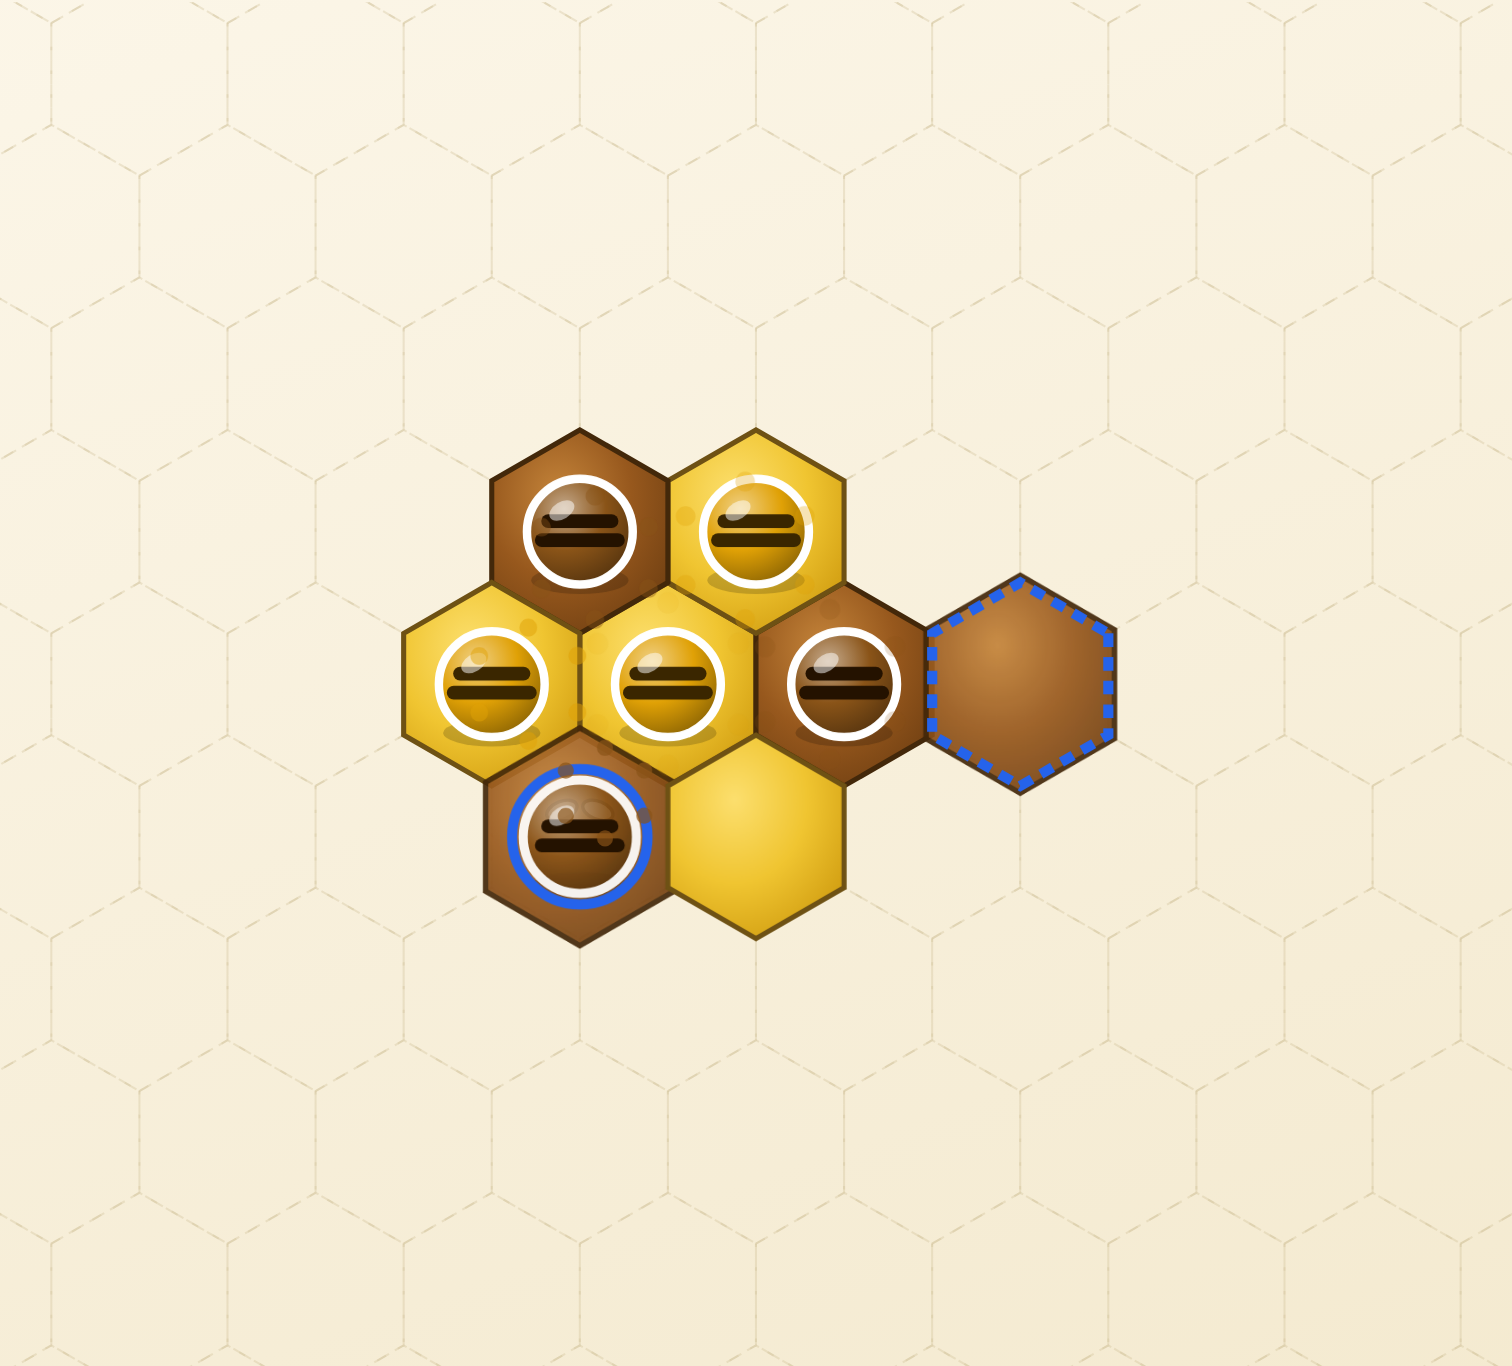
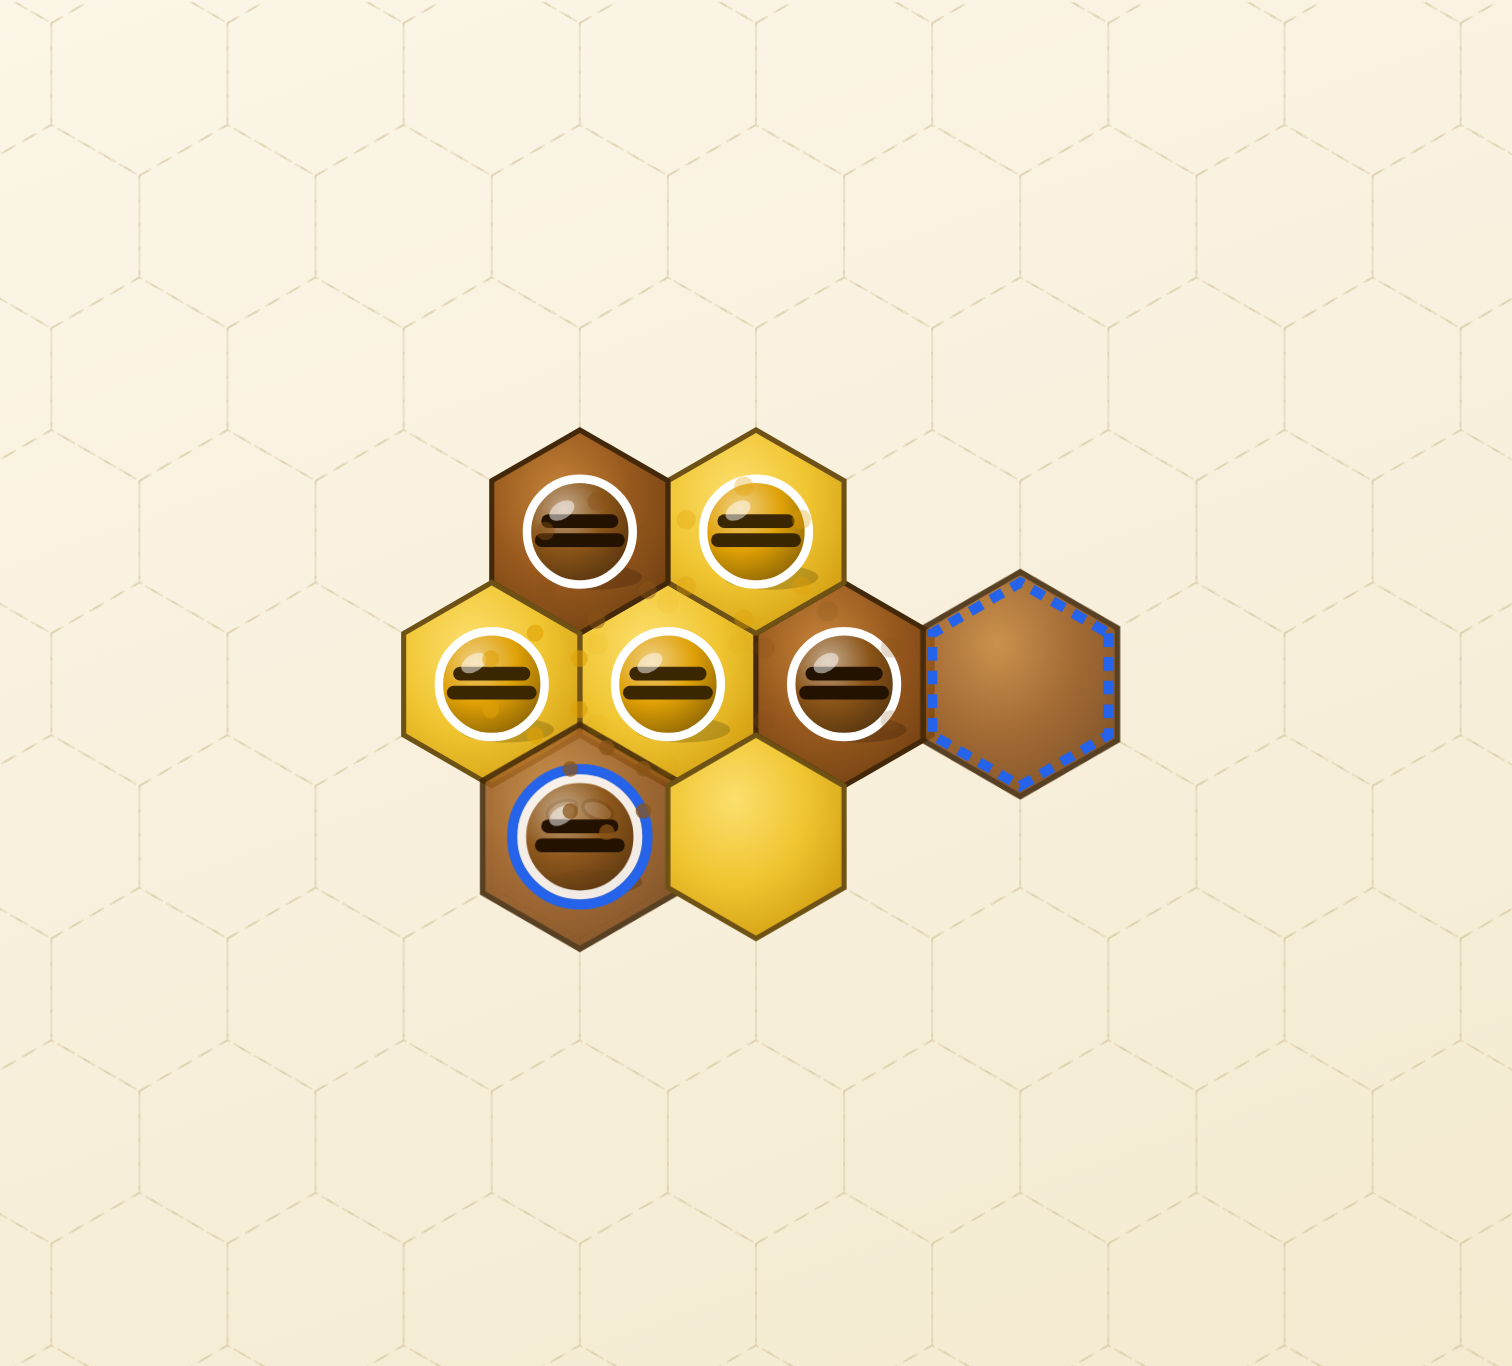
feat(ui): 시각 다듬기 — 그림자 방향·모드/난이도 버튼 값 표시·도움말 박스 재디자인
- 2.5D 그림자를 광원(좌상단 하이라이트)에 맞춰 우하단으로 오프셋 → 광원 일관성.
- 모드/난이도 버튼이 현재 선택값을 표시(예: "vs AI ▾", "어려움 ▾"). hotseat 면 난이도는
  "난이도 ▾"(비활성). MODE_SHORT 라벨로 그리드 폭에 맞춤.
- 설정창 하단 도움말 재디자인: "🐝 도움말" 제목 + 아이콘 행(🏆🍯🖱⌨)으로 정리.
- 한국어 줄바꿈을 word-break:keep-all 로 — 단어가 중간에서 잘리지 않게(body 전역).
- scripts/shot-settings.mjs + README.

diff --git a/src/ui/game-ui.ts b/src/ui/game-ui.ts
@@ -99,6 +99,12 @@ const MODE_LABEL: Record<Mode, string> = {
   vsAi: 'vs AI (갈색)',
   watch: 'AI 관전',
 }
+// 설정 버튼에 현재 선택값을 짧게 보여줄 라벨(드롭다운 버튼용 — 그리드 폭 고려).
+const MODE_SHORT: Record<Mode, string> = {
+  hotseat: '사람끼리',
+  vsAi: 'vs AI',
+  watch: 'AI 관전',
+}
 const DIFF_LABEL: Record<Difficulty, string> = { easy: '쉬움', medium: '보통', hard: '어려움' }
 const AI_DELAY_MS = 350
 
@@ -1093,11 +1099,12 @@ export function mountGame(root: HTMLElement): void {
       const stripe = theme.piece[piece.owner].stripe
 
       // 바닥 그림자 — 타일에 닿은 듯한 입체감(2.5D). 몸통보다 먼저(아래에) 그린다.
+      // 광원이 왼쪽 위(하이라이트 위치)이므로 그림자는 오른쪽 아래로 치우친다.
       const shadow = document.createElementNS(SVGNS, 'ellipse')
-      shadow.setAttribute('cx', String(p.x))
-      shadow.setAttribute('cy', String(p.y + r * 0.92))
-      shadow.setAttribute('rx', String(r * 0.92))
-      shadow.setAttribute('ry', String(r * 0.26))
+      shadow.setAttribute('cx', String(p.x + r * 0.28))
+      shadow.setAttribute('cy', String(p.y + r * 0.86))
+      shadow.setAttribute('rx', String(r * 0.9))
+      shadow.setAttribute('ry', String(r * 0.24))
       shadow.setAttribute('fill', '#000000')
       shadow.setAttribute('opacity', '0.18')
       shadow.style.pointerEvents = 'none'
@@ -1407,10 +1414,10 @@ export function mountGame(root: HTMLElement): void {
     const settingsHtml = `
       <div class="settings-grid">
         <div class="menu-wrap">
-          <button data-act="menuMode" class="${openMenu === 'mode' ? 'open' : ''}">모드 ▾</button>${modeMenu}
+          <button data-act="menuMode" class="${openMenu === 'mode' ? 'open' : ''}" title="플레이 모드 바꾸기">${MODE_SHORT[settings.mode]} ▾</button>${modeMenu}
         </div>
         <div class="menu-wrap">
-          <button data-act="menuDifficulty" class="${openMenu === 'difficulty' ? 'open' : ''}" ${settings.mode === 'hotseat' ? 'disabled' : ''}>난이도 ▾</button>${diffMenu}
+          <button data-act="menuDifficulty" class="${openMenu === 'difficulty' ? 'open' : ''}" ${settings.mode === 'hotseat' ? 'disabled' : ''} title="AI 난이도 바꾸기">${settings.mode === 'hotseat' ? '난이도' : DIFF_LABEL[settings.aiDifficulty]} ▾</button>${diffMenu}
         </div>
         <button data-act="toggleHints" class="${settings.hints ? 'active' : ''}">훈수${settings.hints ? ' ✓' : ''}</button>
         <button data-act="toggleQueen" class="${settings.queen ? 'active' : ''}">여왕벌 모드${settings.queen ? ' ✓' : ''}</button>
@@ -1487,8 +1494,11 @@ export function mountGame(root: HTMLElement): void {
       ${watchCtl}
       ${soundCtl}
       <div class="help">
-        <p class="hint">같은 진영 말 <b>5개를 일렬로</b> 연결하면 승리. 타일은 기존 타일에 붙여서 놓습니다.</p>
-        <p class="hint nav">🖱 휠 = 확대 · 드래그 = 이동<br>⌨ 화살표 = 이동 · ＋－ = 확대 · 0 = 처음 위치로</p>
+        <div class="help-title">🐝 도움말</div>
+        <div class="help-row"><span class="help-ico">🏆</span><span>같은 진영 말 <b>5개</b>를 일렬로 연결하면 승리</span></div>
+        <div class="help-row"><span class="help-ico">🍯</span><span>타일은 기존 타일에 <b>붙여서</b> 놓기</span></div>
+        <div class="help-row"><span class="help-ico">🖱</span><span>휠 = 확대 · 드래그 = 이동</span></div>
+        <div class="help-row"><span class="help-ico">⌨</span><span>화살표 = 이동 · ＋－ = 확대 · 0 = 처음 위치</span></div>
       </div>
     `
 

diff --git a/src/style.css b/src/style.css
@@ -12,6 +12,8 @@ body {
   background: linear-gradient(160deg, #fdf8ec 0%, #f4ead0 100%);
   background-attachment: fixed;
   color: #2b2b2b;
+  /* 한국어는 단어(어절) 단위로 줄바꿈 — 단어 중간에서 잘리지 않게 */
+  word-break: keep-all;
 }
 
 #app {
@@ -395,34 +397,53 @@ svg.board.panning {
   background: #f5efdf;
 }
 
-/* 설명 박스 — 패널 맨 밑 도움말을 묶어 가시성을 높인다 */
+/* 설명 박스 — 패널 맨 밑 도움말. 제목 + 아이콘 행으로 정리해 가독성을 높인다 */
 .help {
-  margin-top: 0.8rem;
-  padding: 0.6rem 0.75rem;
-  background: #fbf6e9;
-  border: 1px solid #e6dcc3;
-  border-radius: 10px;
+  margin-top: 0.9rem;
+  padding: 0.7rem 0.85rem;
+  background: linear-gradient(165deg, #fffaf0 0%, #fbf3df 100%);
+  border: 1px solid #ecdfbe;
+  border-radius: 12px;
+  box-shadow: inset 0 1px 0 #fffdf8;
 }
 
-.hint {
+.help-title {
   font-size: 0.82rem;
+  font-weight: 800;
+  color: #9a6a16;
+  margin-bottom: 0.5rem;
+  letter-spacing: 0.02em;
+}
+
+.help-row {
+  display: flex;
+  align-items: baseline;
+  gap: 0.5rem;
+  font-size: 0.82rem;
+  line-height: 1.55;
   color: #5c4f33;
-  line-height: 1.6;
-  margin: 0;
 }
 
-.help .hint + .hint {
-  margin-top: 0.5rem;
-  padding-top: 0.5rem;
-  border-top: 1px dashed #e0d5b8;
+.help-row + .help-row {
+  margin-top: 0.4rem;
 }
 
-.hint b {
+.help-ico {
+  flex: none;
+  width: 1.2rem;
+  text-align: center;
+}
+
+.help-row b {
   color: #b8860b;
 }
 
-.hint.nav {
-  color: #8a6a2a;
+/* 복기 패널 등에서 쓰는 단순 힌트(박스 밖) */
+.hint {
+  font-size: 0.8rem;
+  color: #6b5e3f;
+  line-height: 1.6;
+  margin: 0.3rem 0 0;
 }
 
 .reach {

diff --git a/scripts/README.md b/scripts/README.md
@@ -33,6 +33,7 @@
 | `shot-themes.mjs` | 컬러 테마 3종(꿀/고대비/벽돌) → `shots/theme-honey.png`·`theme-contrast.png`·`theme-terracotta.png` |
 | `shot-queen-card.mjs` | 여왕벌 설명 팝업 카드 확대 → `shots/queen-card.png` |
 | `shot-bee.mjs` | 말=벌 2.5D(그림자·구형 음영·하이라이트) 확대 → `shots/bee-2_5d.png` |
+| `shot-settings.mjs` | 설정 패널(모드/난이도 현재값 버튼·도움말 박스) → `shots/panel-hotseat.png`·`panel-vsai.png` |
 
 > 주의: 앱의 `renderModal` 은 게임이 끝나지 않으면 modal-layer 를 비운다 — 모달 미리보기는
 > dev 페이지에 주입하지 말고 `shot-mascot.mjs` 처럼 단독 페이지로 렌더할 것.
